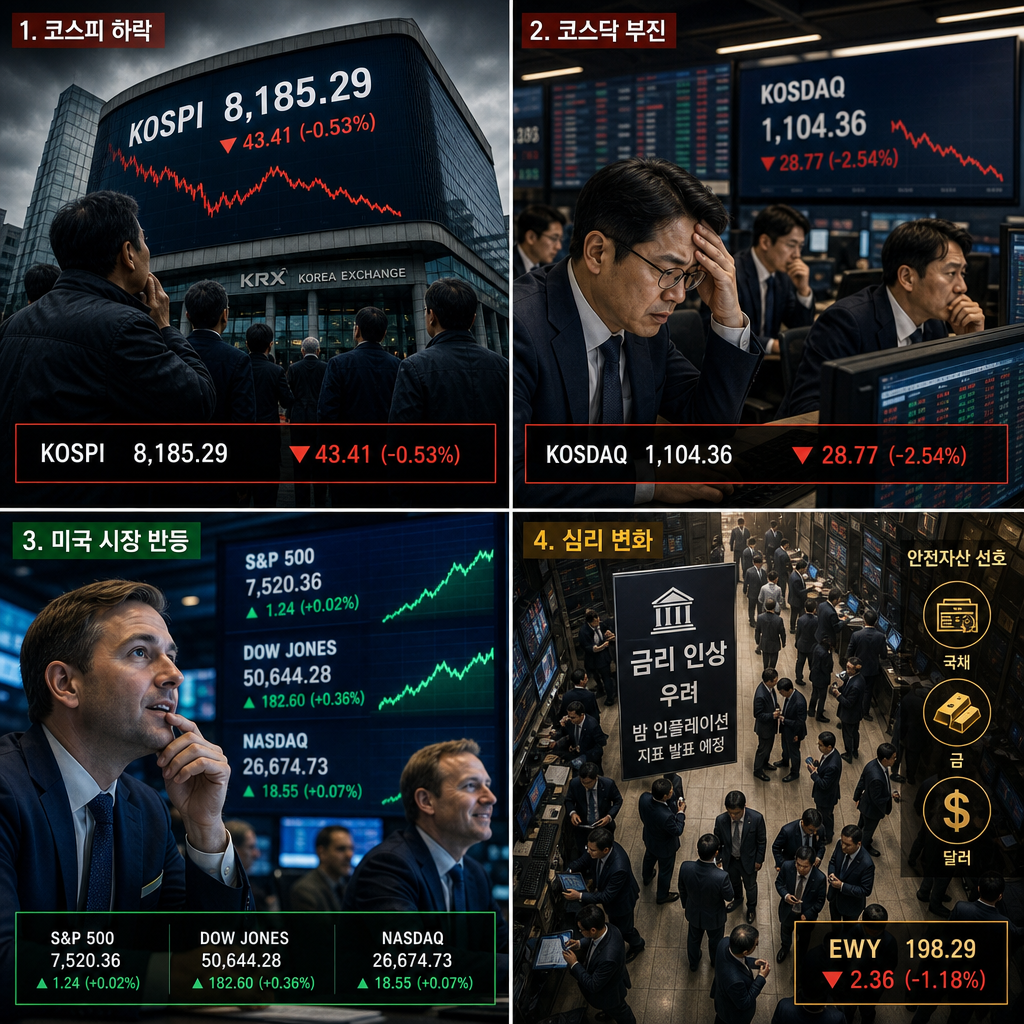
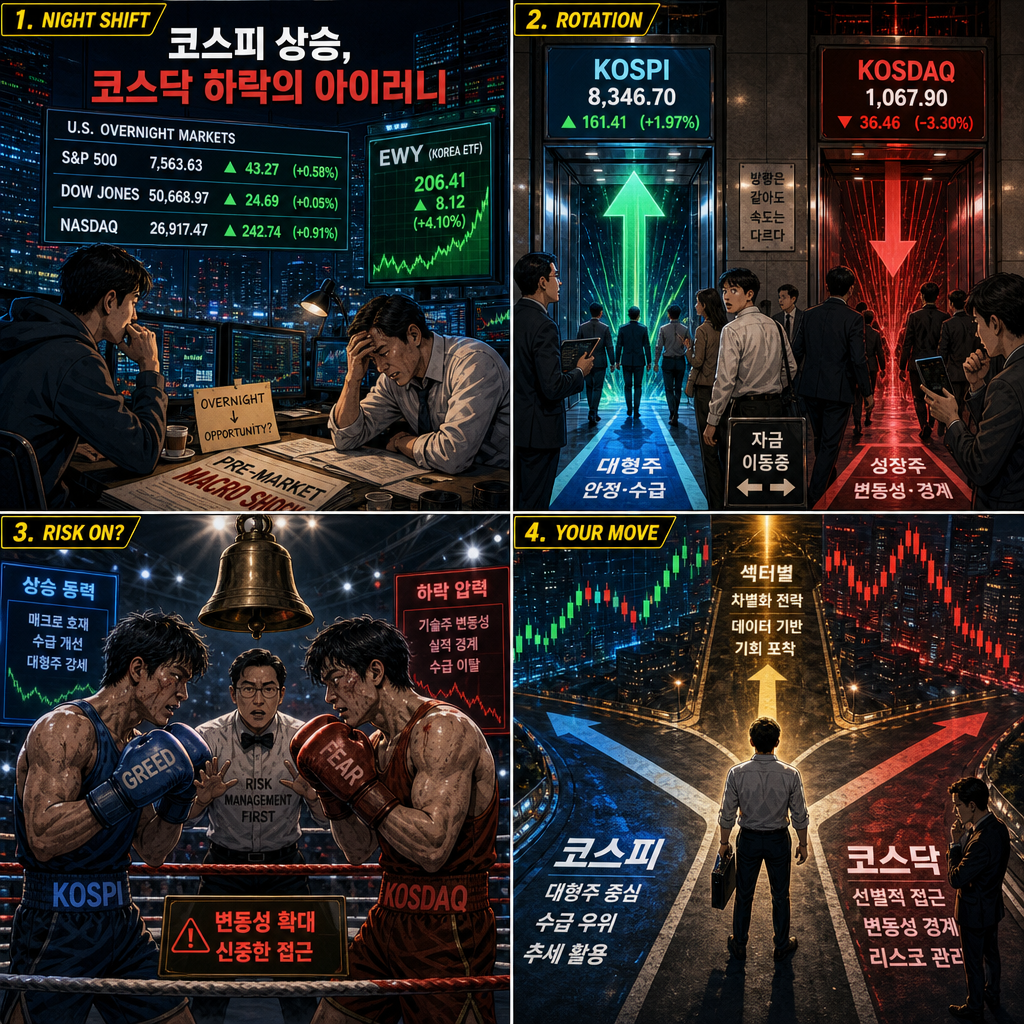
deploy: efe6f696ff8e59adfba2088b25f8cae922e5229a

diff --git a/index.html b/index.html
@@ -663,12 +663,12 @@
             <div class="hero-layout">
                 <div class="hero-copy">
                     <div class="hero-kicker">Seoul and Wall Street pulse, reframed as a daily cover story</div>
-                    <h1 class="header-title">Evening Briefing: 오늘 국장 실시간 & 미장 프리뷰</h1>
-                    <p class="header-subtitle">마지막 업데이트: 2026-05-28 17:24:29</p>
+                    <h1 class="header-title">Morning Briefing: 간밤의 미장 & 국장 프리뷰</h1>
+                    <p class="header-subtitle">마지막 업데이트: 2026-05-29 10:22:02</p>
                 </div>
                 <div class="hero-stamp">
                     <div class="hero-stamp-label">Edition Focus</div>
-                    <div class="hero-stamp-value">글로벌 상승, 한국은 하락의 아이러니</div>
+                    <div class="hero-stamp-value">코스피 상승, 코스닥 하락의 아이러니</div>
                 </div>
             </div>
         </section>
@@ -677,33 +677,33 @@
         <section class="market-grid">
             <div class="index-card">
                 <div class="index-title">KOSPI</div>
-                <div class="index-value">8,185.29</div>
-                <div class="index-badge" style="color: #3b82f6; background-color: #3b82f615;">▼ 43.41 (-0.53%)</div>
+                <div class="index-value">8,346.70</div>
+                <div class="index-badge" style="color: #ef4444; background-color: #ef444415;">▲ 161.41 (+1.97%)</div>
             </div>
             <div class="index-card">
                 <div class="index-title">KOSDAQ</div>
-                <div class="index-value">1,104.36</div>
-                <div class="index-badge" style="color: #3b82f6; background-color: #3b82f615;">▼ 28.77 (-2.54%)</div>
+                <div class="index-value">1,067.90</div>
+                <div class="index-badge" style="color: #3b82f6; background-color: #3b82f615;">▼ 36.46 (-3.30%)</div>
             </div>
             <div class="index-card">
                 <div class="index-title">EWY (한국ETF)</div>
-                <div class="index-value">198.29</div>
-                <div class="index-badge" style="color: #3b82f6; background-color: #3b82f615;">▼ 2.36 (-1.18%)</div>
+                <div class="index-value">206.41</div>
+                <div class="index-badge" style="color: #ef4444; background-color: #ef444415;">▲ 8.12 (+4.10%)</div>
             </div>
             <div class="index-card">
                 <div class="index-title">S&P 500</div>
-                <div class="index-value">7,520.36</div>
-                <div class="index-badge" style="color: #ef4444; background-color: #ef444415;">▲ 1.24 (+0.02%)</div>
+                <div class="index-value">7,563.63</div>
+                <div class="index-badge" style="color: #ef4444; background-color: #ef444415;">▲ 43.27 (+0.58%)</div>
             </div>
             <div class="index-card">
                 <div class="index-title">DOW JONES</div>
-                <div class="index-value">50,644.28</div>
-                <div class="index-badge" style="color: #ef4444; background-color: #ef444415;">▲ 182.60 (+0.36%)</div>
+                <div class="index-value">50,668.97</div>
+                <div class="index-badge" style="color: #ef4444; background-color: #ef444415;">▲ 24.69 (+0.05%)</div>
             </div>
             <div class="index-card">
                 <div class="index-title">NASDAQ</div>
-                <div class="index-value">26,674.73</div>
-                <div class="index-badge" style="color: #ef4444; background-color: #ef444415;">▲ 18.55 (+0.07%)</div>
+                <div class="index-value">26,917.47</div>
+                <div class="index-badge" style="color: #ef4444; background-color: #ef444415;">▲ 242.74 (+0.91%)</div>
             </div>
         </section>
 
@@ -720,7 +720,7 @@
                 
                 <article class="news-item">
                     
-                    <img src="https://imgnews.pstatic.net/image/011/2026/05/28/0004625287_001_20260528100222050.png?type=w800" alt="코스피, 외국인 매도에 8200선 숨고르기…2차전지·로봇株 강세[마켓시그널]" class="news-thumb">
+                    <img src="https://imgnews.pstatic.net/image/011/2026/05/29/0004625735_001_20260529100909275.png?type=w800" alt="삼성전기 주가 200만 원도 찍었다…열흘 만에 2배 올라 [이런국장 저런주식]" class="news-thumb">
                     
                     <div class="news-body">
                         <div class="news-meta">
@@ -731,44 +731,20 @@
                             <span>서울경제</span>
                             
                             
-                            <span>2026-05-28 10:01:24</span>
+                            <span>2026-05-29 10:01:09</span>
                             
                         </div>
-                        <a href="https://n.news.naver.com/mnews/article/011/0004625287" target="_blank" rel="noopener noreferrer" class="news-title">코스피, 외국인 매도에 8200선 숨고르기…2차전지·로봇株 강세[마켓시그널]</a>
+                        <a href="https://n.news.naver.com/mnews/article/011/0004625735" target="_blank" rel="noopener noreferrer" class="news-title">삼성전기 주가 200만 원도 찍었다…열흘 만에 2배 올라 [이런국장 저런주식]</a>
                         
-                        <div class="news-why">코스피가 외국인 매도에 하락세를 보이며 시장의 방향성을 가늠하는 중요한 시점에 있다.</div>
+                        <div class="news-why">삼성전기의 급격한 주가 상승은 KOSPI의 긍정적인 흐름에 기여하고 있으며, 시장의 투자 심리를 자극하고 있다.</div>
                         
-                        <a href="https://n.news.naver.com/mnews/article/011/0004625287" target="_blank" rel="noopener noreferrer" class="news-link">원문 보기</a>
+                        <a href="https://n.news.naver.com/mnews/article/011/0004625735" target="_blank" rel="noopener noreferrer" class="news-link">원문 보기</a>
                     </div>
                 </article>
                 
                 <article class="news-item">
                     
-                    <img src="https://imgnews.pstatic.net/image/016/2026/05/28/0002649079_001_20260528094211156.png?type=w800" alt="‘아직 안 늦었다’ SK하이닉스 레버리지 광풍…이틀 연속 거래대금 1위 [투자360]" class="news-thumb">
-                    
-                    <div class="news-body">
-                        <div class="news-meta">
-                            
-                            <span class="news-scope">Sector</span>
-                            
-                            
-                            <span>헤럴드경제</span>
-                            
-                            
-                            <span>2026-05-28 09:42:11</span>
-                            
-                        </div>
-                        <a href="https://n.news.naver.com/mnews/article/016/0002649079" target="_blank" rel="noopener noreferrer" class="news-title">‘아직 안 늦었다’ SK하이닉스 레버리지 광풍…이틀 연속 거래대금 1위 [투자360]</a>
-                        
-                        <div class="news-why">반도체 호황 기대감이 개인 투자자들의 레버리지 ETF 거래에 큰 영향을 미치고 있다.</div>
-                        
-                        <a href="https://n.news.naver.com/mnews/article/016/0002649079" target="_blank" rel="noopener noreferrer" class="news-link">원문 보기</a>
-                    </div>
-                </article>
-                
-                <article class="news-item">
-                    
-                    <img src="https://imgnews.pstatic.net/image/366/2026/05/28/0001167611_001_20260528094108607.JPG?type=w800" alt="‘숨 고르기’ 들어간 코스피…차익 실현 매물에 8160선 출발" class="news-thumb">
+                    <img src="https://imgnews.pstatic.net/image/001/2026/05/29/PYH2026052904740001300_P4_20260529094511432.jpg?type=w800" alt="코스피, 상승 출발하며 8,400대 안착 시도…코스닥은 하락 전환(종합)" class="news-thumb">
                     
                     <div class="news-body">
                         <div class="news-meta">
@@ -776,41 +752,65 @@
                             <span class="news-scope">Korea</span>
                             
                             
-                            <span>조선비즈</span>
+                            <span>연합뉴스</span>
                             
                             
-                            <span>2026-05-28 09:39:11</span>
+                            <span>2026-05-29 09:44:18</span>
                             
                         </div>
-                        <a href="https://n.news.naver.com/mnews/article/366/0001167611" target="_blank" rel="noopener noreferrer" class="news-title">‘숨 고르기’ 들어간 코스피…차익 실현 매물에 8160선 출발</a>
+                        <a href="https://n.news.naver.com/mnews/article/001/0016106749" target="_blank" rel="noopener noreferrer" class="news-title">코스피, 상승 출발하며 8,400대 안착 시도…코스닥은 하락 전환(종합)</a>
                         
-                        <div class="news-why">코스피의 차익 실현 매물이 시장에 미치는 영향을 보여준다.</div>
+                        <div class="news-why">KOSPI의 상승 출발은 시장의 전반적인 투자 심리를 반영하며, 주요 기업들의 실적 개선 기대감을 나타낸다.</div>
                         
-                        <a href="https://n.news.naver.com/mnews/article/366/0001167611" target="_blank" rel="noopener noreferrer" class="news-link">원문 보기</a>
+                        <a href="https://n.news.naver.com/mnews/article/001/0016106749" target="_blank" rel="noopener noreferrer" class="news-link">원문 보기</a>
                     </div>
                 </article>
                 
                 <article class="news-item">
                     
-                    <img src="https://imgnews.pstatic.net/image/277/2026/05/28/0005768755_001_20260528094715159.jpg?type=w800" alt="[재테크 풍향계]삼전닉스 레버리지, 상장 첫날 &#39;불기둥&#39;…美 단일종목 레버리지는?" class="news-thumb">
+                    <img src="https://imgnews.pstatic.net/image/003/2026/05/29/NISI20260528_0021300860_web_20260528225508_20260529095240298.jpg?type=w800" alt="지방선거 특수 사라진 &#39;정치테마주&#39;…AI·정책 수혜주 일부만 &#39;방긋&#39;" class="news-thumb">
                     
                     <div class="news-body">
                         <div class="news-meta">
                             
-                            <span class="news-scope">Sector</span>
+                            <span class="news-scope">Korea</span>
                             
                             
-                            <span>아시아경제</span>
+                            <span>뉴시스</span>
                             
                             
-                            <span>2026-05-28 09:46:16</span>
+                            <span>2026-05-29 09:51:32</span>
                             
                         </div>
-                        <a href="https://n.news.naver.com/mnews/article/277/0005768755" target="_blank" rel="noopener noreferrer" class="news-title">[재테크 풍향계]삼전닉스 레버리지, 상장 첫날 '불기둥'…美 단일종목 레버리지는?</a>
+                        <a href="https://n.news.naver.com/mnews/article/003/0013975072" target="_blank" rel="noopener noreferrer" class="news-title">지방선거 특수 사라진 '정치테마주'…AI·정책 수혜주 일부만 '방긋'</a>
                         
-                        <div class="news-why">단일종목 레버리지 ETF의 급등세가 시장의 변동성을 높이고 있다.</div>
+                        <div class="news-why">정치 테마주의 약세는 시장의 섹터 회전과 투자 심리에 영향을 미치고 있다.</div>
                         
-                        <a href="https://n.news.naver.com/mnews/article/277/0005768755" target="_blank" rel="noopener noreferrer" class="news-link">원문 보기</a>
+                        <a href="https://n.news.naver.com/mnews/article/003/0013975072" target="_blank" rel="noopener noreferrer" class="news-link">원문 보기</a>
+                    </div>
+                </article>
+                
+                <article class="news-item">
+                    
+                    <img src="https://imgnews.pstatic.net/image/215/2026/05/29/A202605290367_1_20260529100808423.jpg?type=w800" alt="쭉쭉 오르더니 삼전 비웃는 &#39;기세&#39;…목표가도 따돌렸다" class="news-thumb">
+                    
+                    <div class="news-body">
+                        <div class="news-meta">
+                            
+                            <span class="news-scope">Korea</span>
+                            
+                            
+                            <span>한국경제TV</span>
+                            
+                            
+                            <span>2026-05-29 09:37:43</span>
+                            
+                        </div>
+                        <a href="https://n.news.naver.com/mnews/article/215/0001253693" target="_blank" rel="noopener noreferrer" class="news-title">쭉쭉 오르더니 삼전 비웃는 '기세'…목표가도 따돌렸다</a>
+                        
+                        <div class="news-why">LG전자의 주가 급등은 시장에서의 경쟁력을 강화하며, 투자자들에게 중요한 신호를 제공하고 있다.</div>
+                        
+                        <a href="https://n.news.naver.com/mnews/article/215/0001253693" target="_blank" rel="noopener noreferrer" class="news-link">원문 보기</a>
                     </div>
                 </article>
                 
@@ -831,7 +831,7 @@
                     <img src="cover.png" class="cover-img" alt="Market Illustration">
                     <div class="cover-overlay">
                         <div class="cover-overlay-badge">Market Signal</div>
-                        <div class="cover-overlay-headline">글로벌 상승, 한국은 하락의 아이러니</div>
+                        <div class="cover-overlay-headline">코스피 상승, 코스닥 하락의 아이러니</div>
                     </div>
                 </div>
             </section>
@@ -839,20 +839,20 @@
             <section class="summary-card">
                 <div class="summary-header">
                     <div class="summary-kicker">Topline Brief</div>
-                    <div class="summary-title">글로벌 상승, 한국은 하락의 아이러니</div>
+                    <div class="summary-title">코스피 상승, 코스닥 하락의 아이러니</div>
                 </div>
                 <div class="summary-body">
                     <ul class="summary-list">
                         
-                        <li>오늘 한국 시장은 <strong>코스피</strong>가 8,185.29로 <strong>43.41</strong>포인트(-0.53%) 하락하며 마감하였고, <strong>코스닥</strong>도 1,104.36으로 <strong>28.77</strong>포인트(-2.54%) 하락하여 전반적으로 약세를 보였습니다.</li>
+                        <li>한국 야간지표(EWY)**가 4.10% 상승하며 긍정적인 흐름을 보여주었고, 이는 미장에서 S&P500, 다우존스, 나스닥이 각각 상승한 것과 연결되어 한국 시장에 긍정적인 영향을 미칠 것으로 예상된다.</li>
                         
-                        <li>한국 야간지표인 <strong>EWY</strong>는 198.29로 <strong>2.36</strong>포인트(-1.18%) 하락하였으며, 이는 간밤 미장인 <strong>S&P500</strong>과 <strong>다우존스</strong>가 소폭 상승한 것과 대조적입니다.</li>
+                        <li>현재 <strong>코스피</strong>는 8,346.70으로 161.41포인트 상승(+1.97%)했으며, <strong>코스닥</strong>은 1,067.90으로 36.46포인트 하락(-3.30%)하여 두 시장 간의 방향성이 상이함을 나타낸다.</li>
                         
-                        <li>오늘의 한국 시장 하락은 글로벌 시장의 긍정적인 흐름과는 반대로 투자자들의 불안감이 작용한 것으로 보이며, 이는 <strong>국내 경제 지표</strong>나 <strong>정치적 불확실성</strong> 등이 영향을 미쳤을 가능성이 큽니다.</li>
+                        <li>이러한 지표를 바탕으로 <strong>코스피</strong>는 긍정적인 투자 심리를 반영하고 있지만, <strong>코스닥</strong>의 하락세는 기술주 중심의 변동성을 나타내어 투자자들이 신중해야 할 신호로 해석될 수 있다.</li>
                         
-                        <li>따라서 투자자들은 <strong>단기적인 하락세</strong>를 피하기 위해 방어적인 포지션을 고려할 필요가 있으며, 특히 <strong>테크 중심의 코스닥</strong>에 대한 신중한 접근이 요구됩니다.</li>
+                        <li>투자자들은 <strong>코스피</strong>의 상승세를 활용해 대형주 중심의 포지션을 강화할 수 있으며, <strong>코스닥</strong>의 하락에 대해서는 주의 깊게 접근하여 리스크 관리를 철저히 해야 할 필요가 있다.</li>
                         
-                        <li>오늘 밤 미국 시장에서는 <strong>금리 인상</strong>에 대한 우려와 <strong>인플레이션 지표</strong> 발표가 예정되어 있어, 이에 따른 변동성을 유의 깊게 관찰해야 할 것입니다.</li>
+                        <li>오늘 시장에서는 미국 시장의 상승세가 한국 시장에 긍정적인 영향을 미칠 것으로 보이나, 코스닥의 부진이 계속될 경우 섹터별 차별화된 접근이 중요할 것으로 판단된다.</li>
                         
                     </ul>
                 </div>
@@ -867,7 +867,7 @@
                     <div class="agent-flow-meta">
                         <span class="agent-flow-badge">StateGraph</span>
                         
-                        <span class="agent-total-time">총 119,121ms</span>
+                        <span class="agent-total-time">총 116,173ms</span>
                         
                     </div>
                 </div>
@@ -883,7 +883,7 @@
                         <span class="graph-node-icon">📊</span>
                         <span class="graph-node-label">시장 데이터 수집</span>
                         
-                        <span class="graph-node-time success">2769ms</span>
+                        <span class="graph-node-time success">2115ms</span>
                         
                     </div>
                 </div>
@@ -902,14 +902,14 @@
                             <span class="graph-node-icon">🤖</span>
                             <span class="graph-node-label">AI 시장 분석</span>
                             
-                            <span class="graph-node-time success">8420ms</span>
+                            <span class="graph-node-time success">6173ms</span>
                             
                         </div>
                         <div class="graph-node success">
                             <span class="graph-node-icon">📰</span>
                             <span class="graph-node-label">뉴스 수집 & 큐레이션</span>
                             
-                            <span class="graph-node-time success">293ms</span>
+                            <span class="graph-node-time success">13708ms</span>
                             
                         </div>
                     </div>
@@ -927,7 +927,7 @@
                         <span class="graph-node-icon">🎨</span>
                         <span class="graph-node-label">이미지 방향 설계</span>
                         
-                        <span class="graph-node-time success">7560ms</span>
+                        <span class="graph-node-time success">4294ms</span>
                         
                     </div>
                 </div>
@@ -941,7 +941,7 @@
                         <span class="graph-node-icon">🖼</span>
                         <span class="graph-node-label">GPT Image 생성</span>
                         
-                        <span class="graph-node-time success">100079ms</span>
+                        <span class="graph-node-time success">89883ms</span>
                         
                     </div>
                 </div>
@@ -994,8 +994,8 @@
                                 ✅ success
                             </span>
                         </td>
-                        <td><span class="exec-duration">2,769ms</span></td>
-                        <td style="color:#475569;">KOSPI 8,185.29 | KOSDAQ 1,104.36 | S&P500 7,520.36</td>
+                        <td><span class="exec-duration">2,115ms</span></td>
+                        <td style="color:#475569;">KOSPI 8,346.70 | KOSDAQ 1,067.90 | S&P500 7,563.63</td>
                     </tr>
                     
                     <tr>
@@ -1005,8 +1005,8 @@
                                 ✅ success
                             </span>
                         </td>
-                        <td><span class="exec-duration">8,420ms</span></td>
-                        <td style="color:#475569;">요약 5포인트 | 헤드라인: 글로벌 상승, 한국은 하락의 아이러니</td>
+                        <td><span class="exec-duration">6,173ms</span></td>
+                        <td style="color:#475569;">요약 5포인트 | 헤드라인: 코스피 상승, 코스닥 하락의 아이러니</td>
                     </tr>
                     
                     <tr>
@@ -1016,8 +1016,8 @@
                                 ✅ success
                             </span>
                         </td>
-                        <td><span class="exec-duration">293ms</span></td>
-                        <td style="color:#475569;">4건 선정 (기존 다이제스트 재사용)</td>
+                        <td><span class="exec-duration">13,708ms</span></td>
+                        <td style="color:#475569;">4건 선정 (스크래핑 + LLM 큐레이션)</td>
                     </tr>
                     
                     <tr>
@@ -1027,8 +1027,8 @@
                                 ✅ success
                             </span>
                         </td>
-                        <td><span class="exec-duration">7,560ms</span></td>
-                        <td style="color:#475569;">catalyst: 금리 인상 우려</td>
+                        <td><span class="exec-duration">4,294ms</span></td>
+                        <td style="color:#475569;">catalyst: overnight macro shock and positioning ba</td>
                     </tr>
                     
                     <tr>
@@ -1038,7 +1038,7 @@
                                 ✅ success
                             </span>
                         </td>
-                        <td><span class="exec-duration">100,079ms</span></td>
+                        <td><span class="exec-duration">89,883ms</span></td>
                         <td style="color:#475569;">gpt-image-2 1024×1024 커버 이미지 저장 완료</td>
                     </tr>
                     
